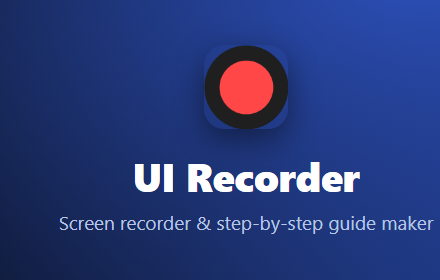
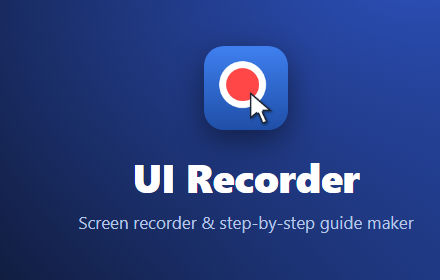
Small Fixing when deploy to Chrome Web Store

diff --git a/background.js b/background.js
@@ -180,10 +180,19 @@ async function closeOffscreenDocument() {
   }
 }
 
+// Website access is an optional permission (see manifest.json). The popup asks
+// for it on Start; this guards against a start that gets here without it, e.g.
+// after the user removed the permission in chrome://extensions.
+const SITE_ACCESS = { origins: ['<all_urls>'] };
+const SITE_ACCESS_MESSAGE = 'UI Recorder needs access to websites to record them. Click Start again and choose Allow.';
+
 async function startRecording() {
   const state = await getState();
   if (state.recording) {
     return { ok: false, error: `Already ${state.mode === 'steps' ? 'capturing steps' : 'recording'}.` };
+  }
+  if (!(await chrome.permissions.contains(SITE_ACCESS))) {
+    return { ok: false, error: SITE_ACCESS_MESSAGE };
   }
 
   const [activeTab] = await chrome.tabs.query({ active: true, currentWindow: true });
@@ -881,6 +890,9 @@ async function startStepCapture() {
   const state = await getState();
   if (state.recording) {
     return { ok: false, error: `Already ${state.mode === 'steps' ? 'capturing steps' : 'recording'}.` };
+  }
+  if (!(await chrome.permissions.contains(SITE_ACCESS))) {
+    return { ok: false, error: SITE_ACCESS_MESSAGE };
   }
 
   const pending = await getPendingReviewCount();

diff --git a/popup/popup.js b/popup/popup.js
@@ -35,8 +35,20 @@ async function refresh() {
 }
 
 async function start(type, button) {
+  // Website access is optional at install time, so the first Start asks for it.
+  // This call has to come before any await: Chrome only shows the prompt for a
+  // direct click. If access was already granted, it resolves without a prompt.
+  const access = chrome.permissions.request({ origins: ['<all_urls>'] });
   errorEl.hidden = true;
   button.disabled = true;
+  const granted = await access.catch(() => false);
+  if (!granted) {
+    button.disabled = false;
+    errorEl.textContent = 'UI Recorder needs access to websites to record them. Click Start again and choose Allow.';
+    errorEl.hidden = false;
+    return;
+  }
+
   const result = await chrome.runtime.sendMessage({ type });
   button.disabled = false;
 

diff --git a/store/icon/make_icon.py b/store/icon/make_icon.py
@@ -1,0 +1,90 @@
+"""Draws the UI Recorder extension icon and writes the sizes the extension and the store need.
+
+    python store/icon/make_icon.py
+
+Writes icons/icon16.png, icons/icon48.png, icons/icon128.png (RGBA, the extension's own icons) and
+store/icon/ui-recorder-icon-1024.png (master copy). The design: a blue rounded square (the UI's accent colour),
+a red record button (the recording mark), and a cursor arrow (the clicks that become steps).
+"""
+import os
+
+from PIL import Image, ImageDraw, ImageFilter
+
+HERE = os.path.dirname(os.path.abspath(__file__))
+ROOT = os.path.dirname(os.path.dirname(HERE))
+SIZE = 1024  # master is drawn large and scaled down, so the small sizes stay smooth
+
+BLUE_TOP = (63, 128, 240)
+BLUE_BOTTOM = (31, 79, 168)
+RED = (255, 71, 71)
+WHITE = (255, 255, 255)
+INK = (29, 36, 51)
+
+
+def rounded_mask(size, radius):
+    mask = Image.new("L", (size, size), 0)
+    ImageDraw.Draw(mask).rounded_rectangle((0, 0, size - 1, size - 1), radius=radius, fill=255)
+    return mask
+
+
+def gradient(size, top, bottom):
+    img = Image.new("RGB", (size, size))
+    px = ImageDraw.Draw(img)
+    for y in range(size):
+        t = y / (size - 1)
+        color = tuple(round(top[i] + (bottom[i] - top[i]) * t) for i in range(3))
+        px.line((0, y, size, y), fill=color)
+    return img
+
+
+def draw_icon():
+    base = Image.new("RGBA", (SIZE, SIZE), (0, 0, 0, 0))
+
+    # blue rounded square
+    tile = gradient(SIZE, BLUE_TOP, BLUE_BOTTOM).convert("RGBA")
+    base.paste(tile, (0, 0), rounded_mask(SIZE, 225))
+
+    # white ring + red record disc, centred
+    cx = cy = 470
+    ring_r = 285
+    disc_r = 200
+    layer = Image.new("RGBA", (SIZE, SIZE), (0, 0, 0, 0))
+    d = ImageDraw.Draw(layer)
+    d.ellipse((cx - ring_r, cy - ring_r, cx + ring_r, cy + ring_r), fill=WHITE + (255,))
+    d.ellipse((cx - disc_r, cy - disc_r, cx + disc_r, cy + disc_r), fill=RED + (255,))
+    base = Image.alpha_composite(base, layer)
+
+    # cursor arrow at the bottom right, with a soft shadow so it reads on the blue
+    arrow = [(0, 0), (0, 330), (92, 255), (152, 392), (214, 364), (154, 232), (270, 232)]
+    scale = 1.0
+    ox, oy = 560, 560
+    pts = [(ox + x * scale, oy + y * scale) for x, y in arrow]
+
+    shadow = Image.new("RGBA", (SIZE, SIZE), (0, 0, 0, 0))
+    ImageDraw.Draw(shadow).polygon([(x + 14, y + 16) for x, y in pts], fill=(0, 0, 0, 110))
+    shadow = shadow.filter(ImageFilter.GaussianBlur(14))
+    base = Image.alpha_composite(base, shadow)
+
+    cursor = Image.new("RGBA", (SIZE, SIZE), (0, 0, 0, 0))
+    cd = ImageDraw.Draw(cursor)
+    cd.polygon(pts, fill=WHITE + (255,), outline=INK + (255,), width=18)
+    base = Image.alpha_composite(base, cursor)
+    return base
+
+
+def main():
+    master = draw_icon()
+    store_dir = os.path.join(HERE)
+    os.makedirs(store_dir, exist_ok=True)
+    master.save(os.path.join(store_dir, "ui-recorder-icon-1024.png"))
+
+    icons_dir = os.path.join(ROOT, "icons")
+    for size in (16, 48, 128):
+        small = master.resize((size, size), Image.LANCZOS)
+        small.save(os.path.join(icons_dir, f"icon{size}.png"), optimize=True)
+        print(f"wrote icons/icon{size}.png")
+    print("wrote store/icon/ui-recorder-icon-1024.png")
+
+
+if __name__ == "__main__":
+    main()

diff --git a/store/CLIENT_INSTALL.md b/store/CLIENT_INSTALL.md
@@ -45,7 +45,7 @@ The UI Recorder icon now stays visible. Click it to open the menu.
 ## 4. Check that it works
 
 1. Open any normal website, for example https://example.com.
-2. Click the UI Recorder icon, then **Start Step-by-Step Capture**.
+2. Click the UI Recorder icon, then **Start Step-by-Step Capture**. The first time, Chrome asks whether UI Recorder may read and change data on the websites you visit. Choose **Allow**. You are asked only once, and recording is not possible without it.
 3. Click something on the page. A small Pause/Stop control appears at the top right of the page.
 4. Click **Stop** on the page. A review page opens with a screenshot of your click.
 5. Click **Generate guide**. The files are saved to **Downloads → recordings → steps-<date>**.

diff --git a/store/STORE_SUBMISSION.md b/store/STORE_SUBMISSION.md
@@ -144,6 +144,8 @@ Then tick all three certifications:
 ```
 No sign-in or account is needed.
 
+Website access: the extension asks for access to websites the first time Start is pressed (it is an optional permission, not granted at install). Click "Allow" in Chrome's prompt, then continue.
+
 Step-by-step capture:
 1. Open any website, for example https://example.com or https://www.wikipedia.org.
 2. Click the UI Recorder toolbar icon, then "Start Step-by-Step Capture".
